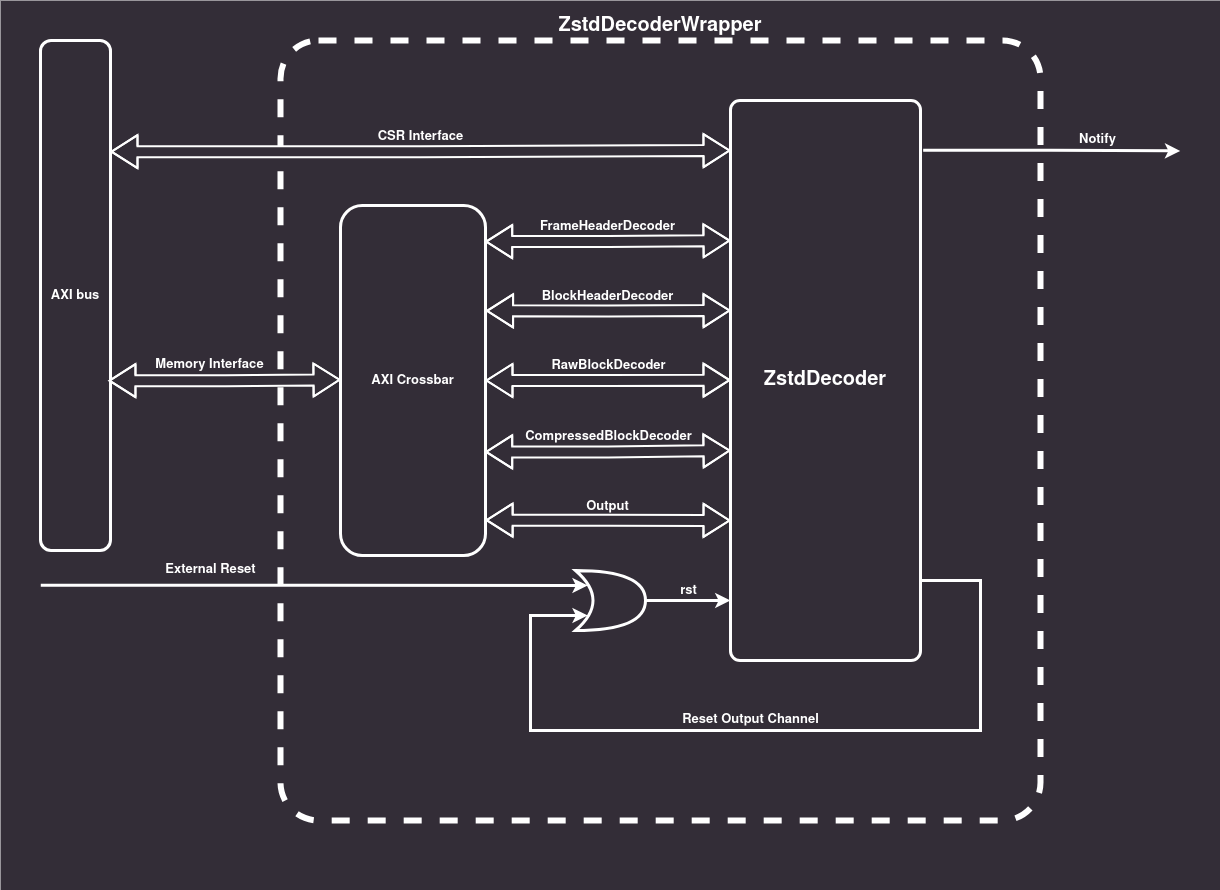
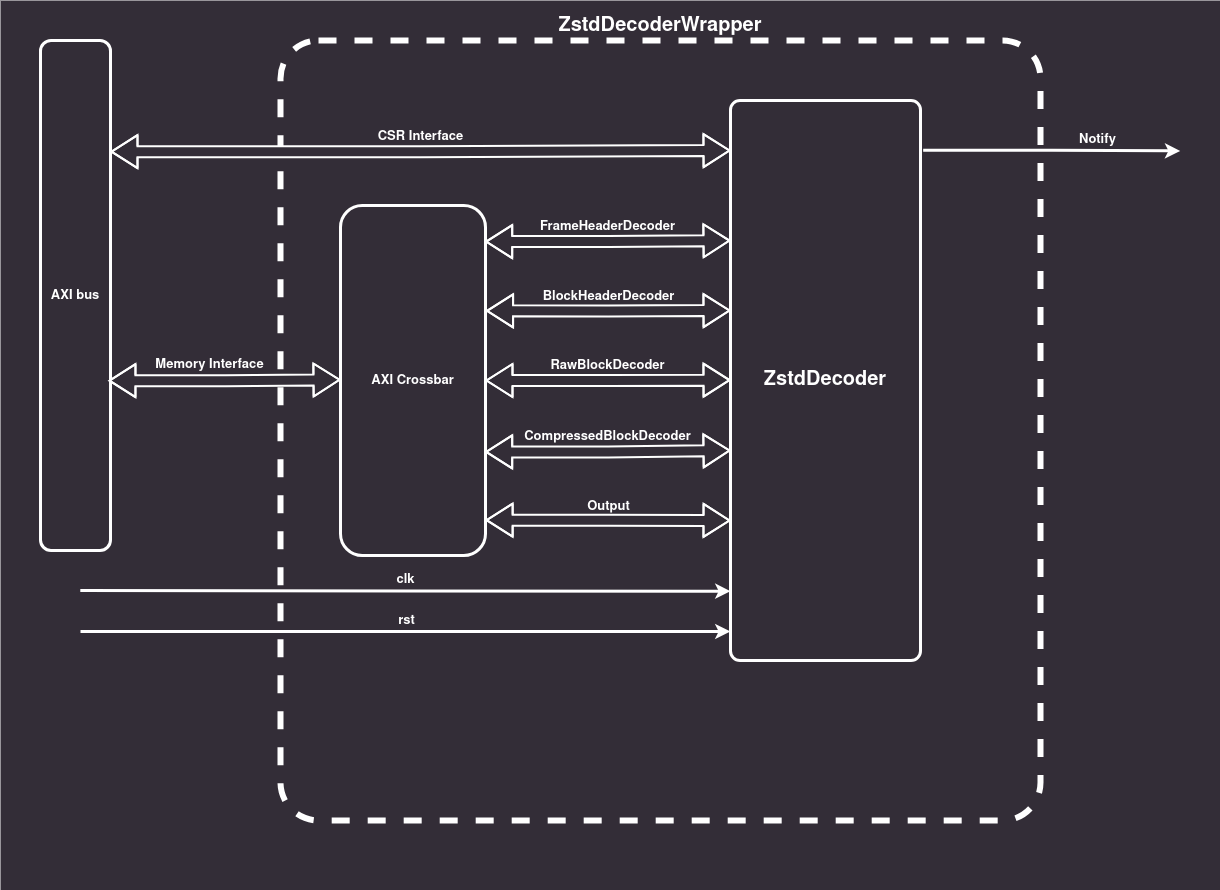
modules/zstd: Remove RESET CSR

diff --git a/xls/modules/zstd/zstd_dec_cocotb_test.py b/xls/modules/zstd/zstd_dec_cocotb_test.py
@@ -64,19 +64,14 @@ AxiRMonitor._signal_widths = signal_widths
 class NotifyStruct(XLSStruct):
   pass
 
-@xls_dataclass
-class ResetStruct(XLSStruct):
-  pass
-
 class CSR(Enum):
   """
   Maps the offsets to the ZSTD Decoder registers
   """
   Status = 0
   Start = 1
-  Reset = 2
-  InputBuffer = 3
-  OutputBuffer = 4
+  InputBuffer = 2
+  OutputBuffer = 3
 
 class Status(Enum):
   """
@@ -146,9 +141,6 @@ async def test_csr(dut):
   await ClockCycles(dut.clk, 10)
   i = 0
   for reg in CSR:
-    # Reset CSR tested in a separate test case
-    if (reg == CSR.Reset):
-      continue
     expected_src = bytearray.fromhex("0DF0AD8BEFBEADDE")
     assert len(expected_src) >= AXI_DATA_W_BYTES
     expected = expected_src[-AXI_DATA_W_BYTES:]
@@ -165,17 +157,8 @@ async def test_reset(dut):
 
   await reset_dut(dut, 50)
 
-  (reset_channel, reset_monitor) = connect_xls_channel(dut, RESET_CHANNEL, ResetStruct)
-
   csr_bus = connect_axi_bus(dut, "csr")
   cpu = AxiMaster(csr_bus, dut.clk, dut.rst)
-
-  scoreboard = Scoreboard(dut)
-
-  rst_struct = ResetStruct()
-  # Expect single reset signal on reset output channel
-  expected_reset = [rst_struct]
-  scoreboard.add_interface(reset_monitor, expected_reset)
 
   await ClockCycles(dut.clk, 10)
   await start_decoder(cpu)
@@ -186,7 +169,7 @@ async def test_reset(dut):
     timeout -= 1
   assert (timeout != 0)
 
-  await csr_write(cpu, CSR.Reset, 0x1)
+  await reset_dut(dut, 50)
   await wait_for_idle(cpu, 10)
 
   await ClockCycles(dut.clk, 10)
@@ -194,7 +177,7 @@ async def test_reset(dut):
 async def configure_decoder(cpu, ibuf_addr, obuf_addr):
   status = await csr_read(cpu, CSR.Status)
   if int.from_bytes(status.data, byteorder='little') != Status.IDLE.value:
-    await csr_write(cpu, CSR.Reset, 0x1)
+    await reset_dut(dut, 50)
   await csr_write(cpu, CSR.InputBuffer, ibuf_addr)
   await csr_write(cpu, CSR.OutputBuffer, obuf_addr)
 

diff --git a/xls/modules/zstd/README.md b/xls/modules/zstd/README.md
@@ -45,9 +45,8 @@ The registers are defined below:
 | ---- | ------- | ----------- |
 | Status | 0x0 | Keeps the code describing the current state of the ZSTD Decoder |
 | Start | 0x8 | Writing `1` when the decoder is in the `IDLE` state starts the decoding process |
-| Reset | 0x10 | Writing `1` will reset the decoder to the `IDLE` state |
-| Input Buffer | 0x18 | Keeps the base address for the input buffer that is used for storing the frame to decode |
-| Output Buffer | 0x20 | Keeps the base address for the output buffer, ZSTD Decoder will write the decoded frame into memory starting from this address. |
+| Input Buffer | 0x10 | Keeps the base address for the input buffer that is used for storing the frame to decode |
+| Output Buffer | 0x18 | Keeps the base address for the output buffer, ZSTD Decoder will write the decoded frame into memory starting from this address. |
 
 ### Status codes
 
@@ -68,23 +67,12 @@ The following is a list of all available status codes that can be written in the
 | RAW_BLOCK_ERROR | 10 | Failure in communication with the memory |
 | RLE_BLOCK_OK | 11 | Successfully decoded RLE data block |
 
-### Reset handling
-
-The expected behavior of the `Reset` CSR cannot be achieved solely in the DSLX code.
-As of [cb2829ab](https://github.com/google/xls/commit/cb2829ab809c58f21d957a47e400456a8c8f8db1), the XLS toolchain does not support resetting the proc network on the DSLX level.
-As a workaround for this issue, the `ZstdDec` proc defines a `reset` output channel that sends a pulse when there is a write to the `Reset` CSR.
-The Verilog code that integrates the decoder in a target system must connect this output back to the standard `rst` input of the decoder.
-If any external reset signal exists and is intended to be used with the decoder, it should be OR-ed with the `reset` channel output before connecting to the decoder's `rst` input.
-Please refer to the diagram of the Verilog wrapper in the [Testing Methodology](#testing-methodology) chapter for example reset connection.
-
 ## Controlling the decoder from the software
 
 The configuration done by the software must be carried out when the decoder is in the `IDLE` state.
 It is the only time when the decoder will be able to take the configuration values from the CSRs and use those in the decoding process.
 
 The software should first read the `Status` register to confirm that the decoder is in the `IDLE` state.
-In case it is not in the `IDLE` state, it is possible to reset the decoder by writing `1` to the `Reset` register.
-Please note that this will stop ongoing decoding and all progress will be lost.
 
 Then, the software has to reserve the memory for the input buffer and write the frame to decode there.
 The address of the buffer should be written into `Input Buffer` register so that the decoder will know where to look for the frame to decode.
